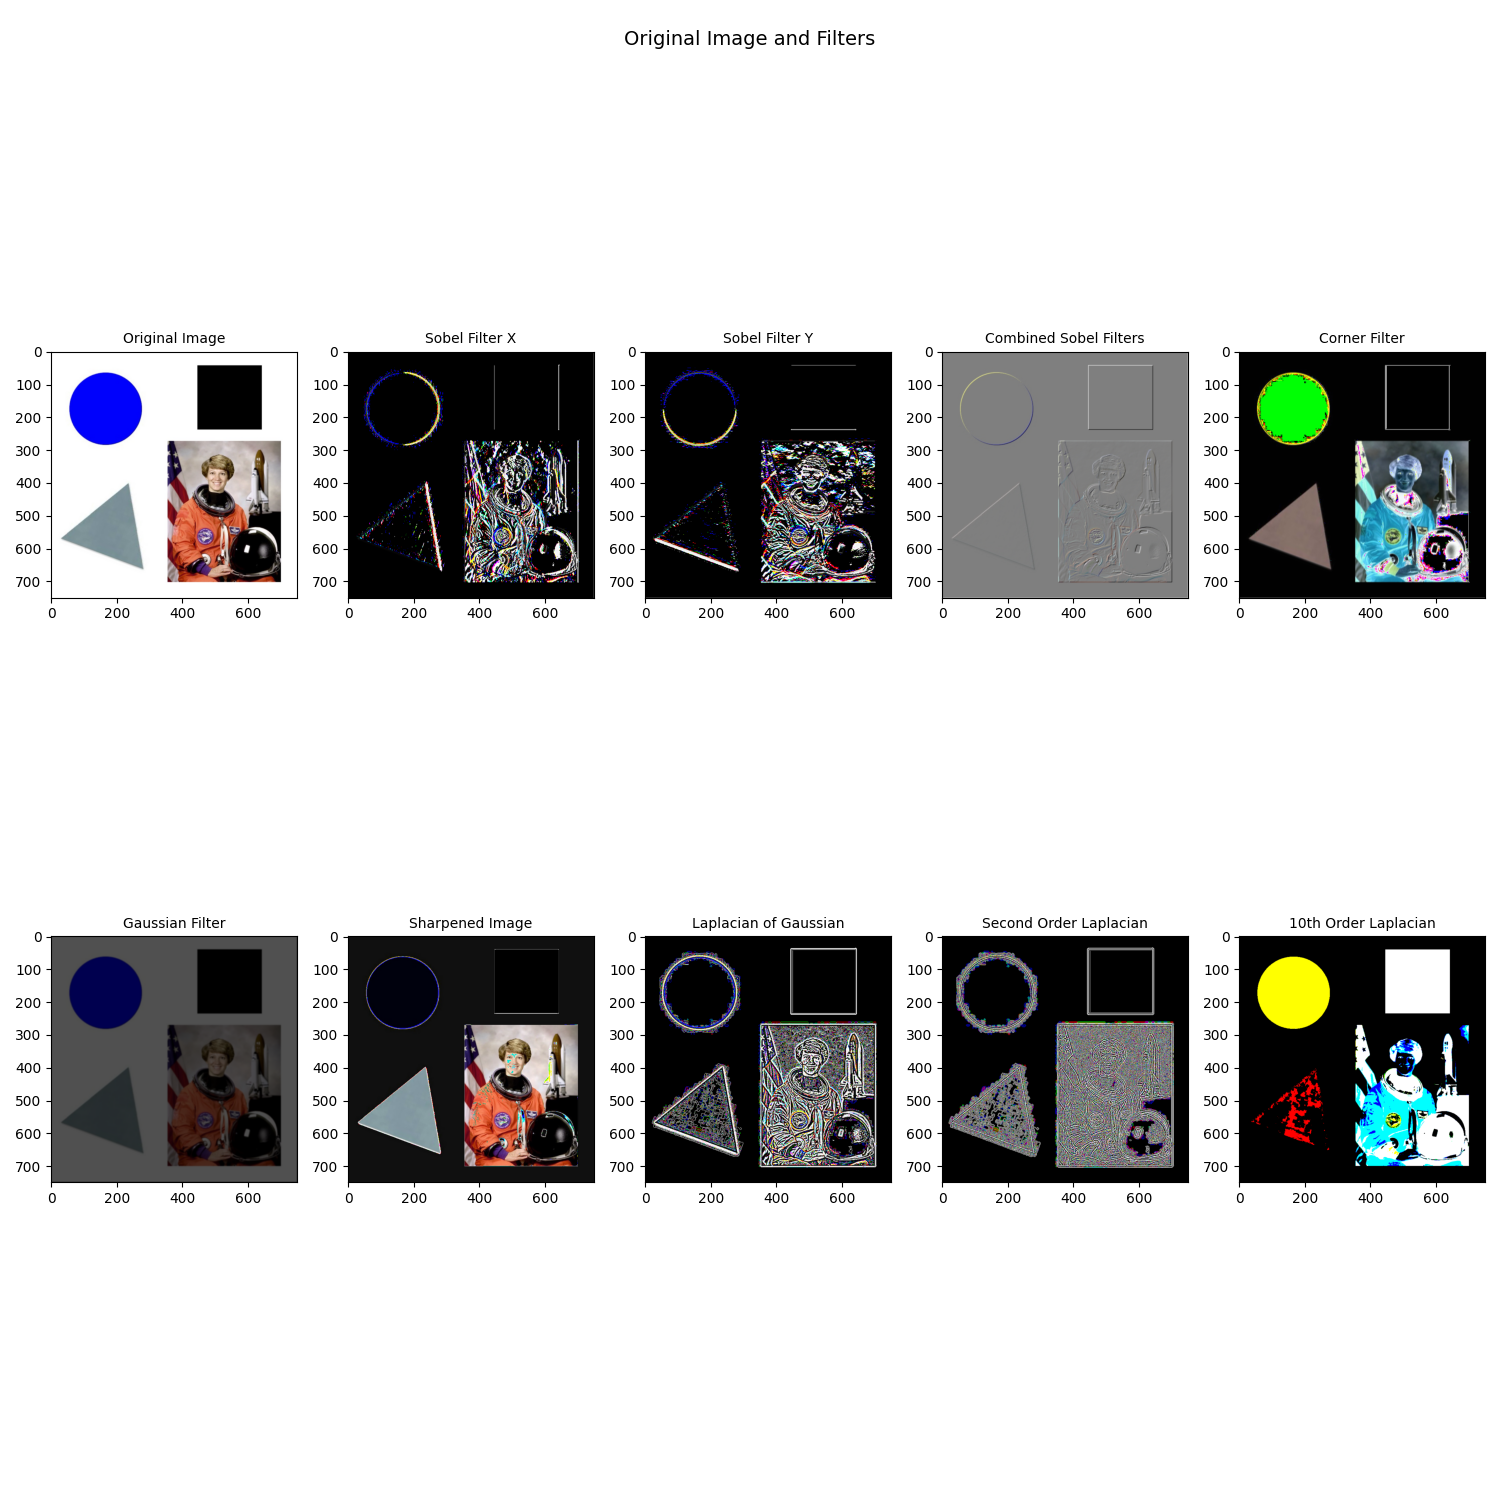
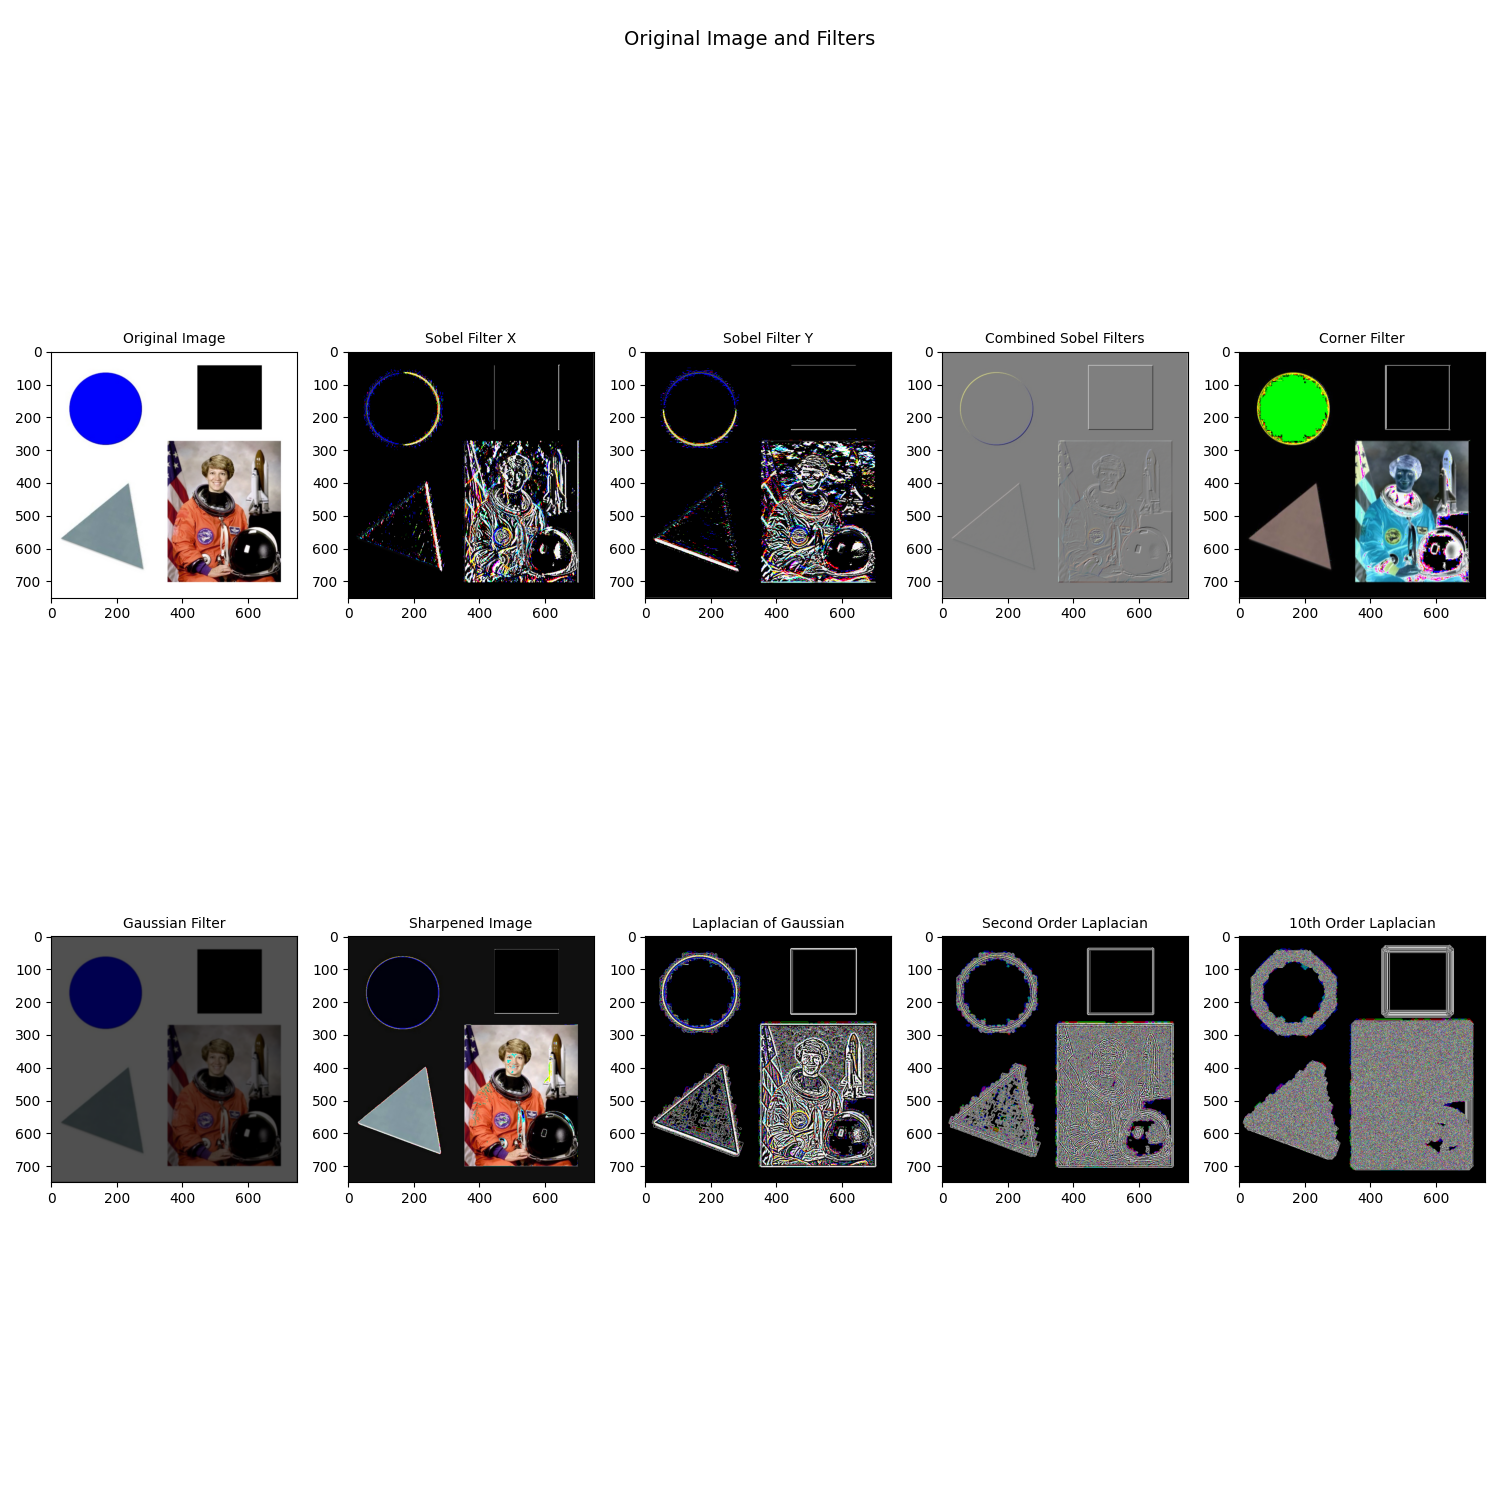
Update

Changed region(s): [[0.828, 0.6133, 0.9813, 0.7973]]

diff --git a/image-processing/filters/filter-2.py b/image-processing/filters/filter-2.py
@@ -1,0 +1,126 @@
+import numpy as np
+import cv2 as cv
+import matplotlib.pyplot as plt
+import scipy.signal
+import os
+from skimage.util import random_noise
+
+path = 'C:/Users/kritt/Documents/GitHub/Intro-to-Computer-Vision/image-processing/sample-images/'
+output_path = 'C:/Users/kritt/Documents/GitHub/Intro-to-Computer-Vision/image-processing/filters/'
+
+img = cv.imread(path + 'image1.jpg', cv.COLOR_BGR2RGB)
+img = cv.resize(img, (75, 75))
+
+def add_noise(image, noise_type, **kwargs):
+    if noise_type == 'gaussian':
+        noisy_image = random_noise(image, mode=noise_type, var=kwargs.get('var', 0.01))  # Default variance is 0.01
+    else:
+        noisy_image = random_noise(image, mode=noise_type)
+    noisy_image = np.array(255 * noisy_image, dtype=np.uint8)  # Correct dtype
+    return noisy_image
+
+sobel_filter_x = np.array([[-1, 0, 1], 
+                         [-2, 0, 2], 
+                         [-1, 0, 1]]) / 8
+
+sobel_filter_y = sobel_filter_x.T
+
+corner_filter = np.array([[-1, -2, 1], 
+                          [-2, 4, -2], 
+                          [-1, -2, 1]]) / 4
+
+bilinear_filter = np.array([[1, 1, 1], 
+                     [1, 1, 1], 
+                     [1, 1, 1]]) / 16
+
+edge_filter = np.array([[-1, -1, -1], 
+                        [-1, 8, -1], 
+                        [-1, -1, -1]]) 
+
+gaussian_filter = scipy.signal.convolve2d(bilinear_filter, bilinear_filter, mode='full')
+'''
+gaussian_filter =
+[[1. 2. 3. 2. 1.]
+ [2. 4. 6. 4. 2.]
+ [3. 6. 9. 6. 3.]
+ [2. 4. 6. 4. 2.]
+ [1. 2. 3. 2. 1.]] / 256
+'''
+
+def apply_filter_to_color_image(image, filter_kernel):
+    channels = cv.split(image)
+    filtered_channels = [scipy.signal.convolve2d(channel, filter_kernel, mode='same') for channel in channels]
+    return cv.merge(filtered_channels)
+
+def laplacian_of_gaussian(image, kernel_size=5, sigma=1.0):
+    blurred = cv.GaussianBlur(image, (kernel_size, kernel_size), sigma)
+    laplacian = cv.Laplacian(blurred, cv.CV_64F)
+    return laplacian
+
+def second_order_laplacian_of_gaussian(image, kernel_size=5, sigma=1.0):
+    blurred = cv.GaussianBlur(image, (kernel_size, kernel_size), sigma)
+    laplacian = cv.Laplacian(blurred, cv.CV_64F)
+    second_order_laplacian = cv.Laplacian(laplacian, cv.CV_64F)
+    return second_order_laplacian
+
+def n_order_laplacian_of_gaussian(image, n=1, kernel_size=5, sigma=1.0):
+    image = cv.GaussianBlur(image, (kernel_size, kernel_size), sigma)
+    for _ in range(n):
+        image = cv.Laplacian(image, cv.CV_64F)
+    return image
+
+# noised_img = img
+noised_img = add_noise(img, 'gaussian', var=0.5)
+# noised_img = add_noise(img, 's&p')
+# noised_img = add_noise(img, 'poisson')
+# noised_img = add_noise(img, 'speckle')
+
+flt_img1 = apply_filter_to_color_image(noised_img, sobel_filter_x)
+flt_img2 = apply_filter_to_color_image(noised_img, sobel_filter_y)
+flt_img3 = flt_img1 + flt_img2
+
+min_val, max_val = np.min(flt_img3), np.max(flt_img3)
+normalized_img = (flt_img3 - min_val) / (max_val - min_val) * 255
+flt_img3 = normalized_img.astype(np.uint8)
+
+flt_img4 = apply_filter_to_color_image(noised_img, corner_filter)
+flt_img5 = apply_filter_to_color_image(noised_img, gaussian_filter)
+
+sharpening_factor = 0.1
+flt_img6 = noised_img + sharpening_factor * (noised_img - flt_img5)
+
+flt_img7 = laplacian_of_gaussian(noised_img)
+flt_img8 = second_order_laplacian_of_gaussian(noised_img)
+# flt_img9 = n_order_laplacian_of_gaussian(noised_img, n=10)
+
+flt_img9 = cv.integral(noised_img).astype(np.uint8)
+
+filters = [
+    # ("Original Image", img),
+    ("Noised Image", noised_img),
+    ("Sobel Filter X", flt_img1),
+    ("Sobel Filter Y", flt_img2),
+    ("Combined Sobel Filters", flt_img3),
+    ("Corner Filter", flt_img4),
+    ("Gaussian Filter", flt_img5),
+    ("Sharpened Image", flt_img6),
+    ("Laplacian of Gaussian", flt_img7),
+    ("Second Order Laplacian", flt_img8),
+    ("10th Order Laplacian", flt_img9)
+]
+
+plt.figure(figsize=(15, 15))
+plt.suptitle("Original Image and Filters", fontsize=14)
+
+rows = 2
+cols = 5
+
+for i, (title, image) in enumerate(filters, start=1):
+    plt.subplot(rows, cols, i)
+    plt.imshow(cv.cvtColor(image.astype(np.uint8), cv.COLOR_BGR2RGB))
+    plt.title(title, fontsize=10)
+    plt.axis('on')
+
+plt.tight_layout()
+plt.savefig(os.path.join(output_path, 'output-filters-2.png'))
+plt.show()
